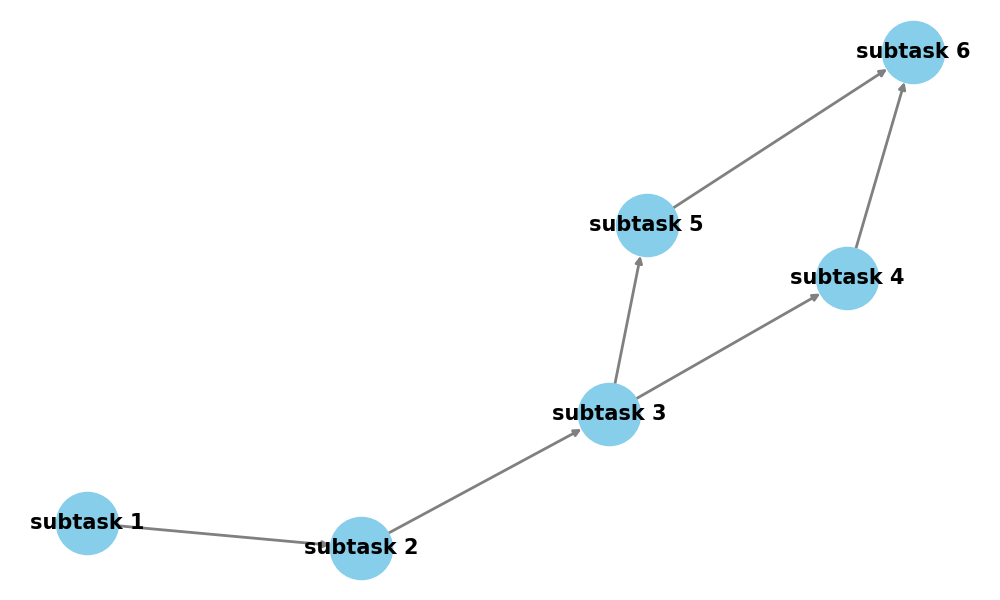
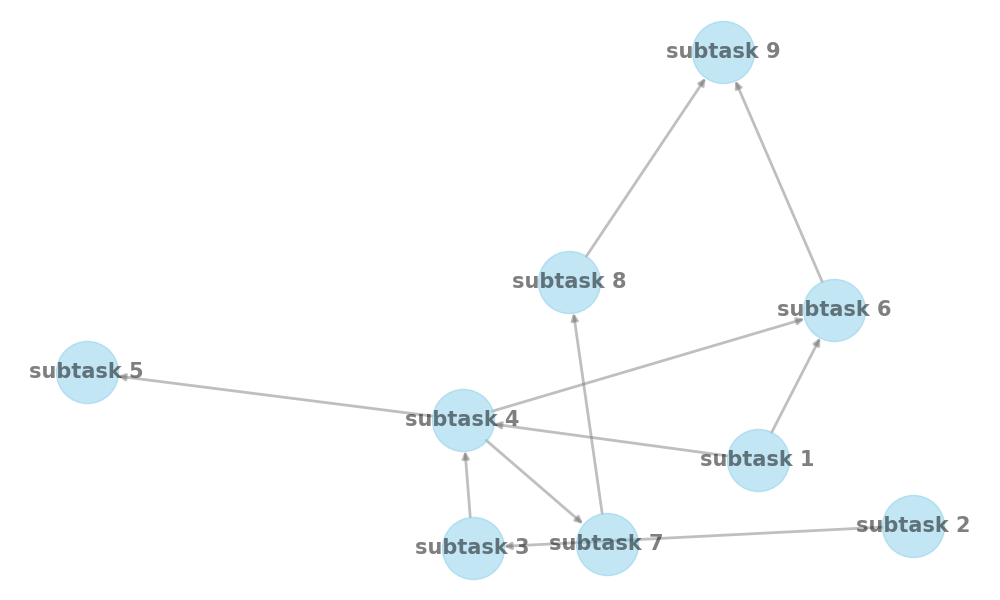
adjust graph visualization

diff --git a/camel/agents/role_assignment_agent.py b/camel/agents/role_assignment_agent.py
@@ -175,10 +175,11 @@ class RoleAssignmentAgent(ChatAgent):
             for dep in details:
                 G.add_edge(dep, subtask)
 
-        pos = nx.spring_layout(G)
+        pos = nx.spring_layout(G, k=0.5)
         plt.figure(figsize=(10, 6))
         nx.draw(G, pos, with_labels=True, node_size=2000, node_color='skyblue',
-                font_size=15, width=2, edge_color='gray', font_weight='bold')
+                alpha=0.5, font_size=15, width=2, edge_color='gray',
+                font_weight='bold')
         plt.title("Task Dependency Graph")
         # Save the figure locally
         filepath = "examples/multi_agent/task_dependency_graph.png"

diff --git a/examples/multi_agent/get_task_execution_order.py b/examples/multi_agent/get_task_execution_order.py
@@ -28,7 +28,7 @@ def main(model_type=None) -> None:
     role_description_dict = role_assignment_agent.run(task_prompt=task_prompt,
                                                       num_roles=4)
 
-    num_subtasks = 6
+    num_subtasks = 9
 
     subtasks_with_dependencies_dict = \
         role_assignment_agent.split_tasks(task_prompt, role_description_dict,
